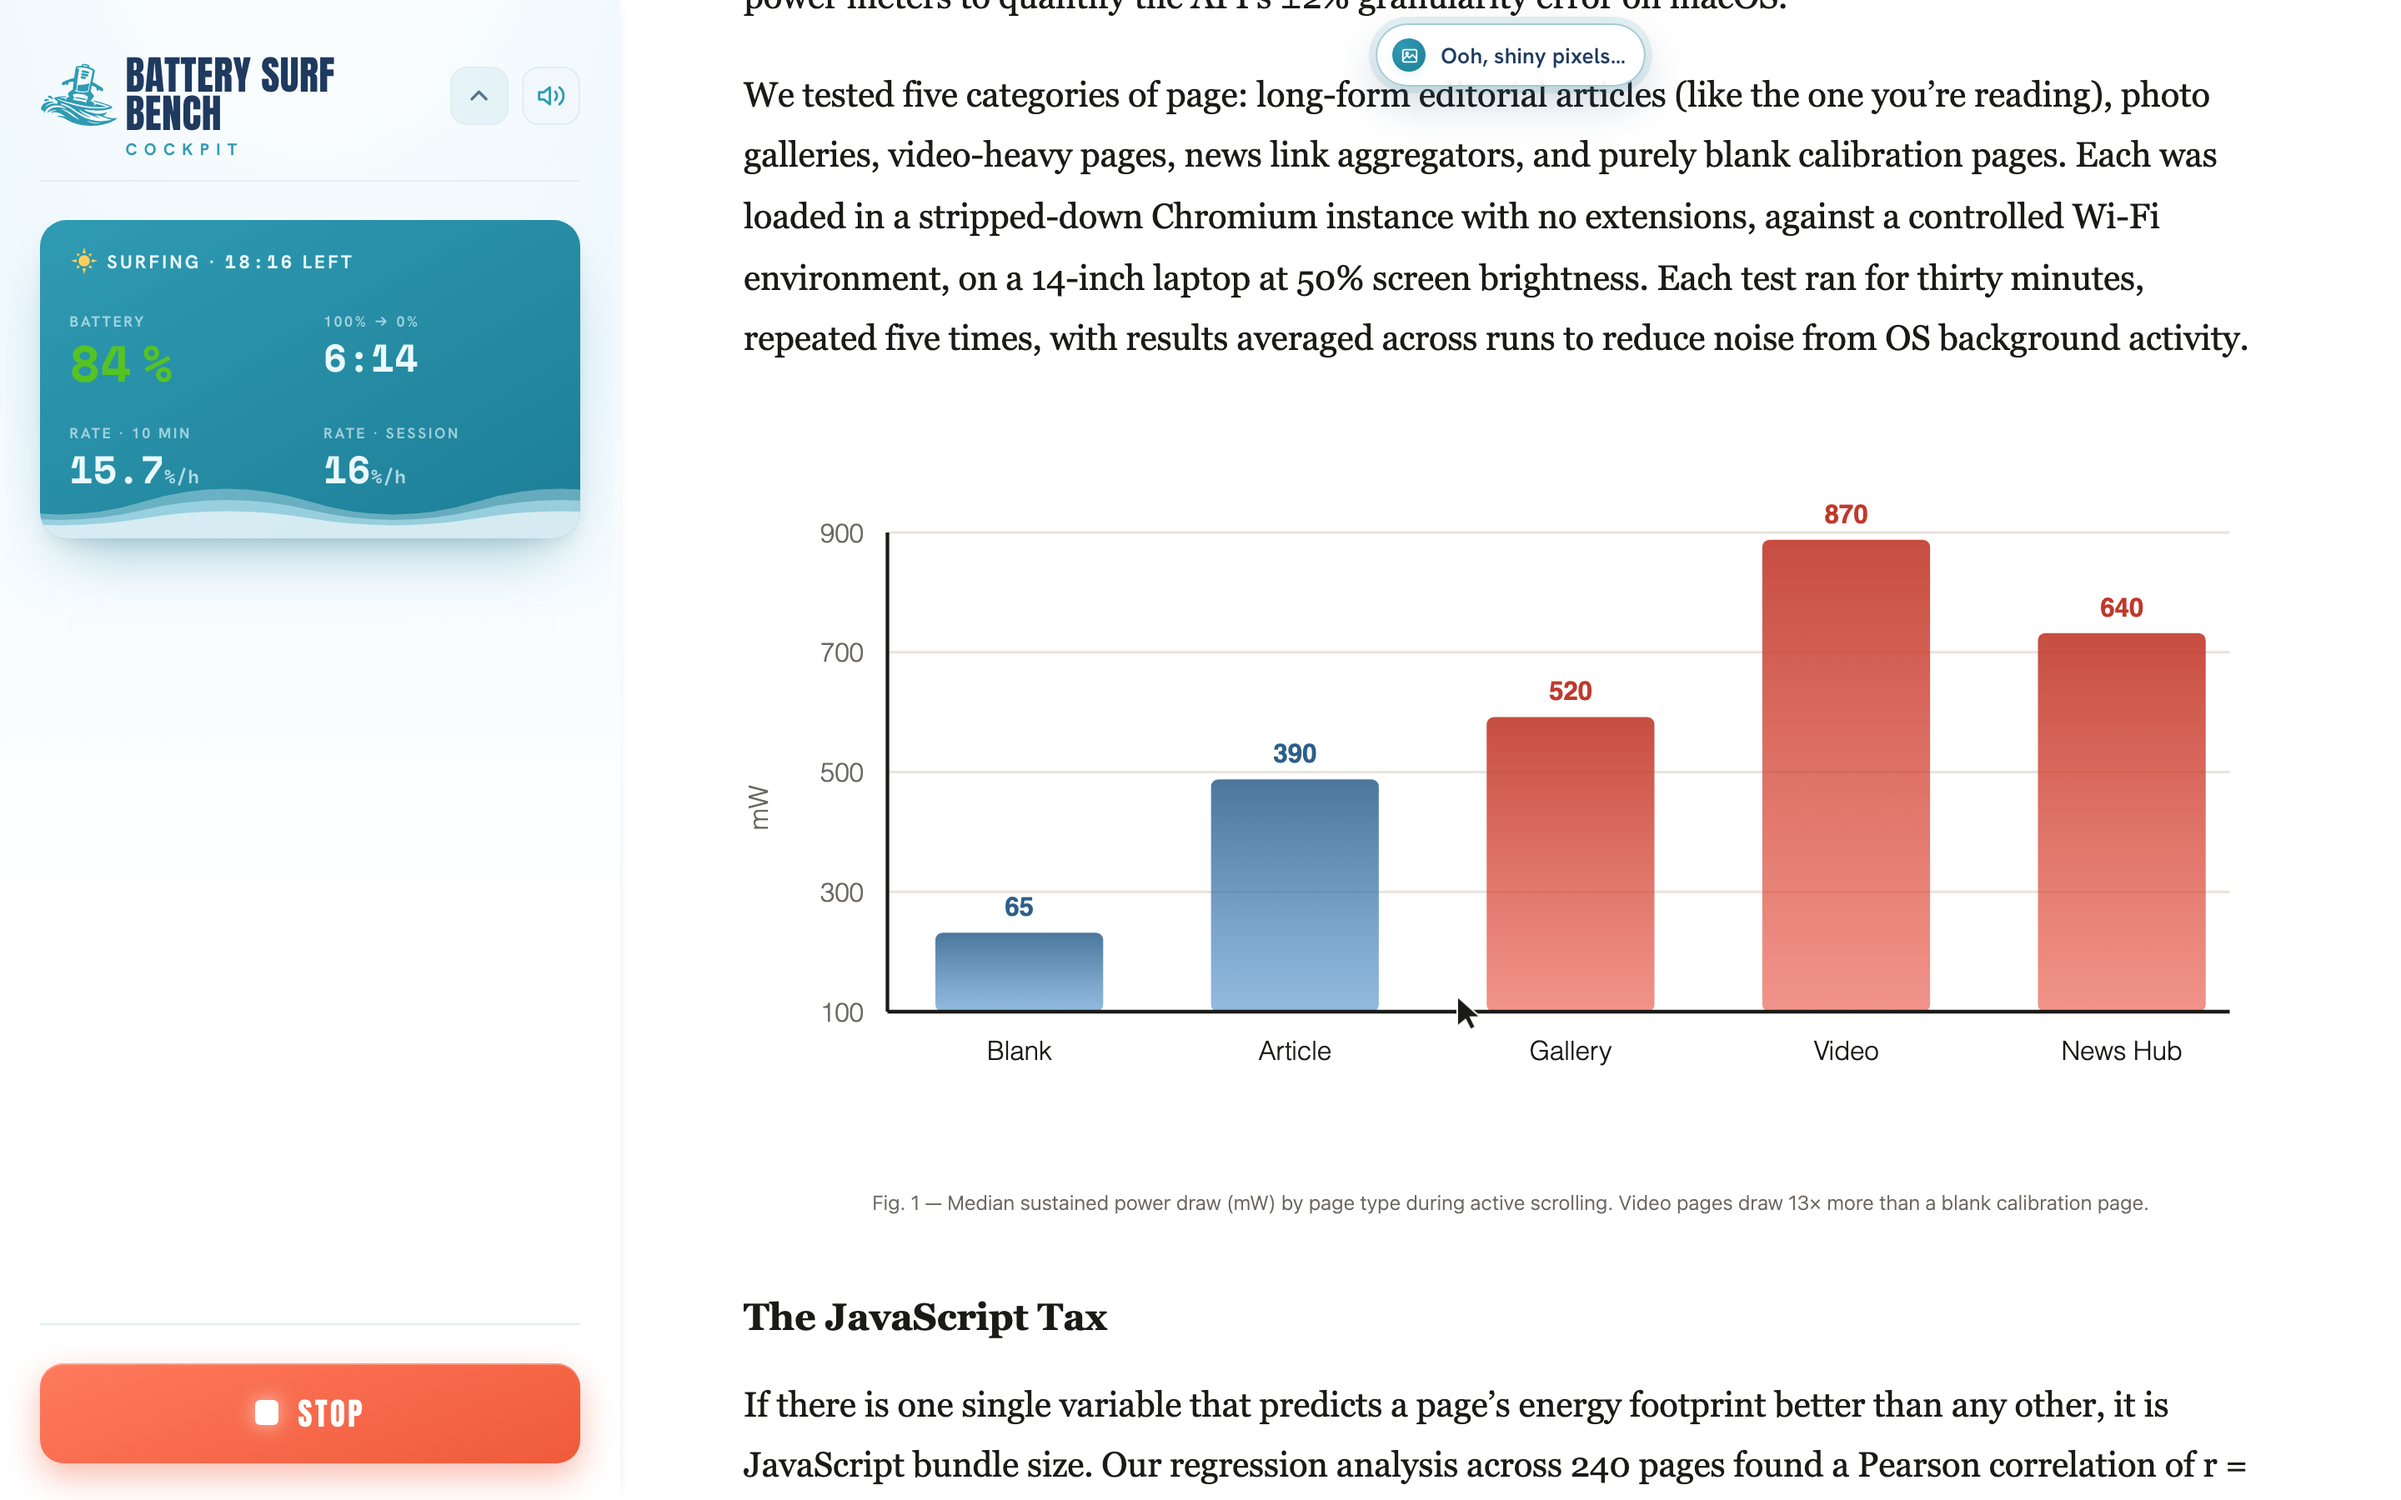
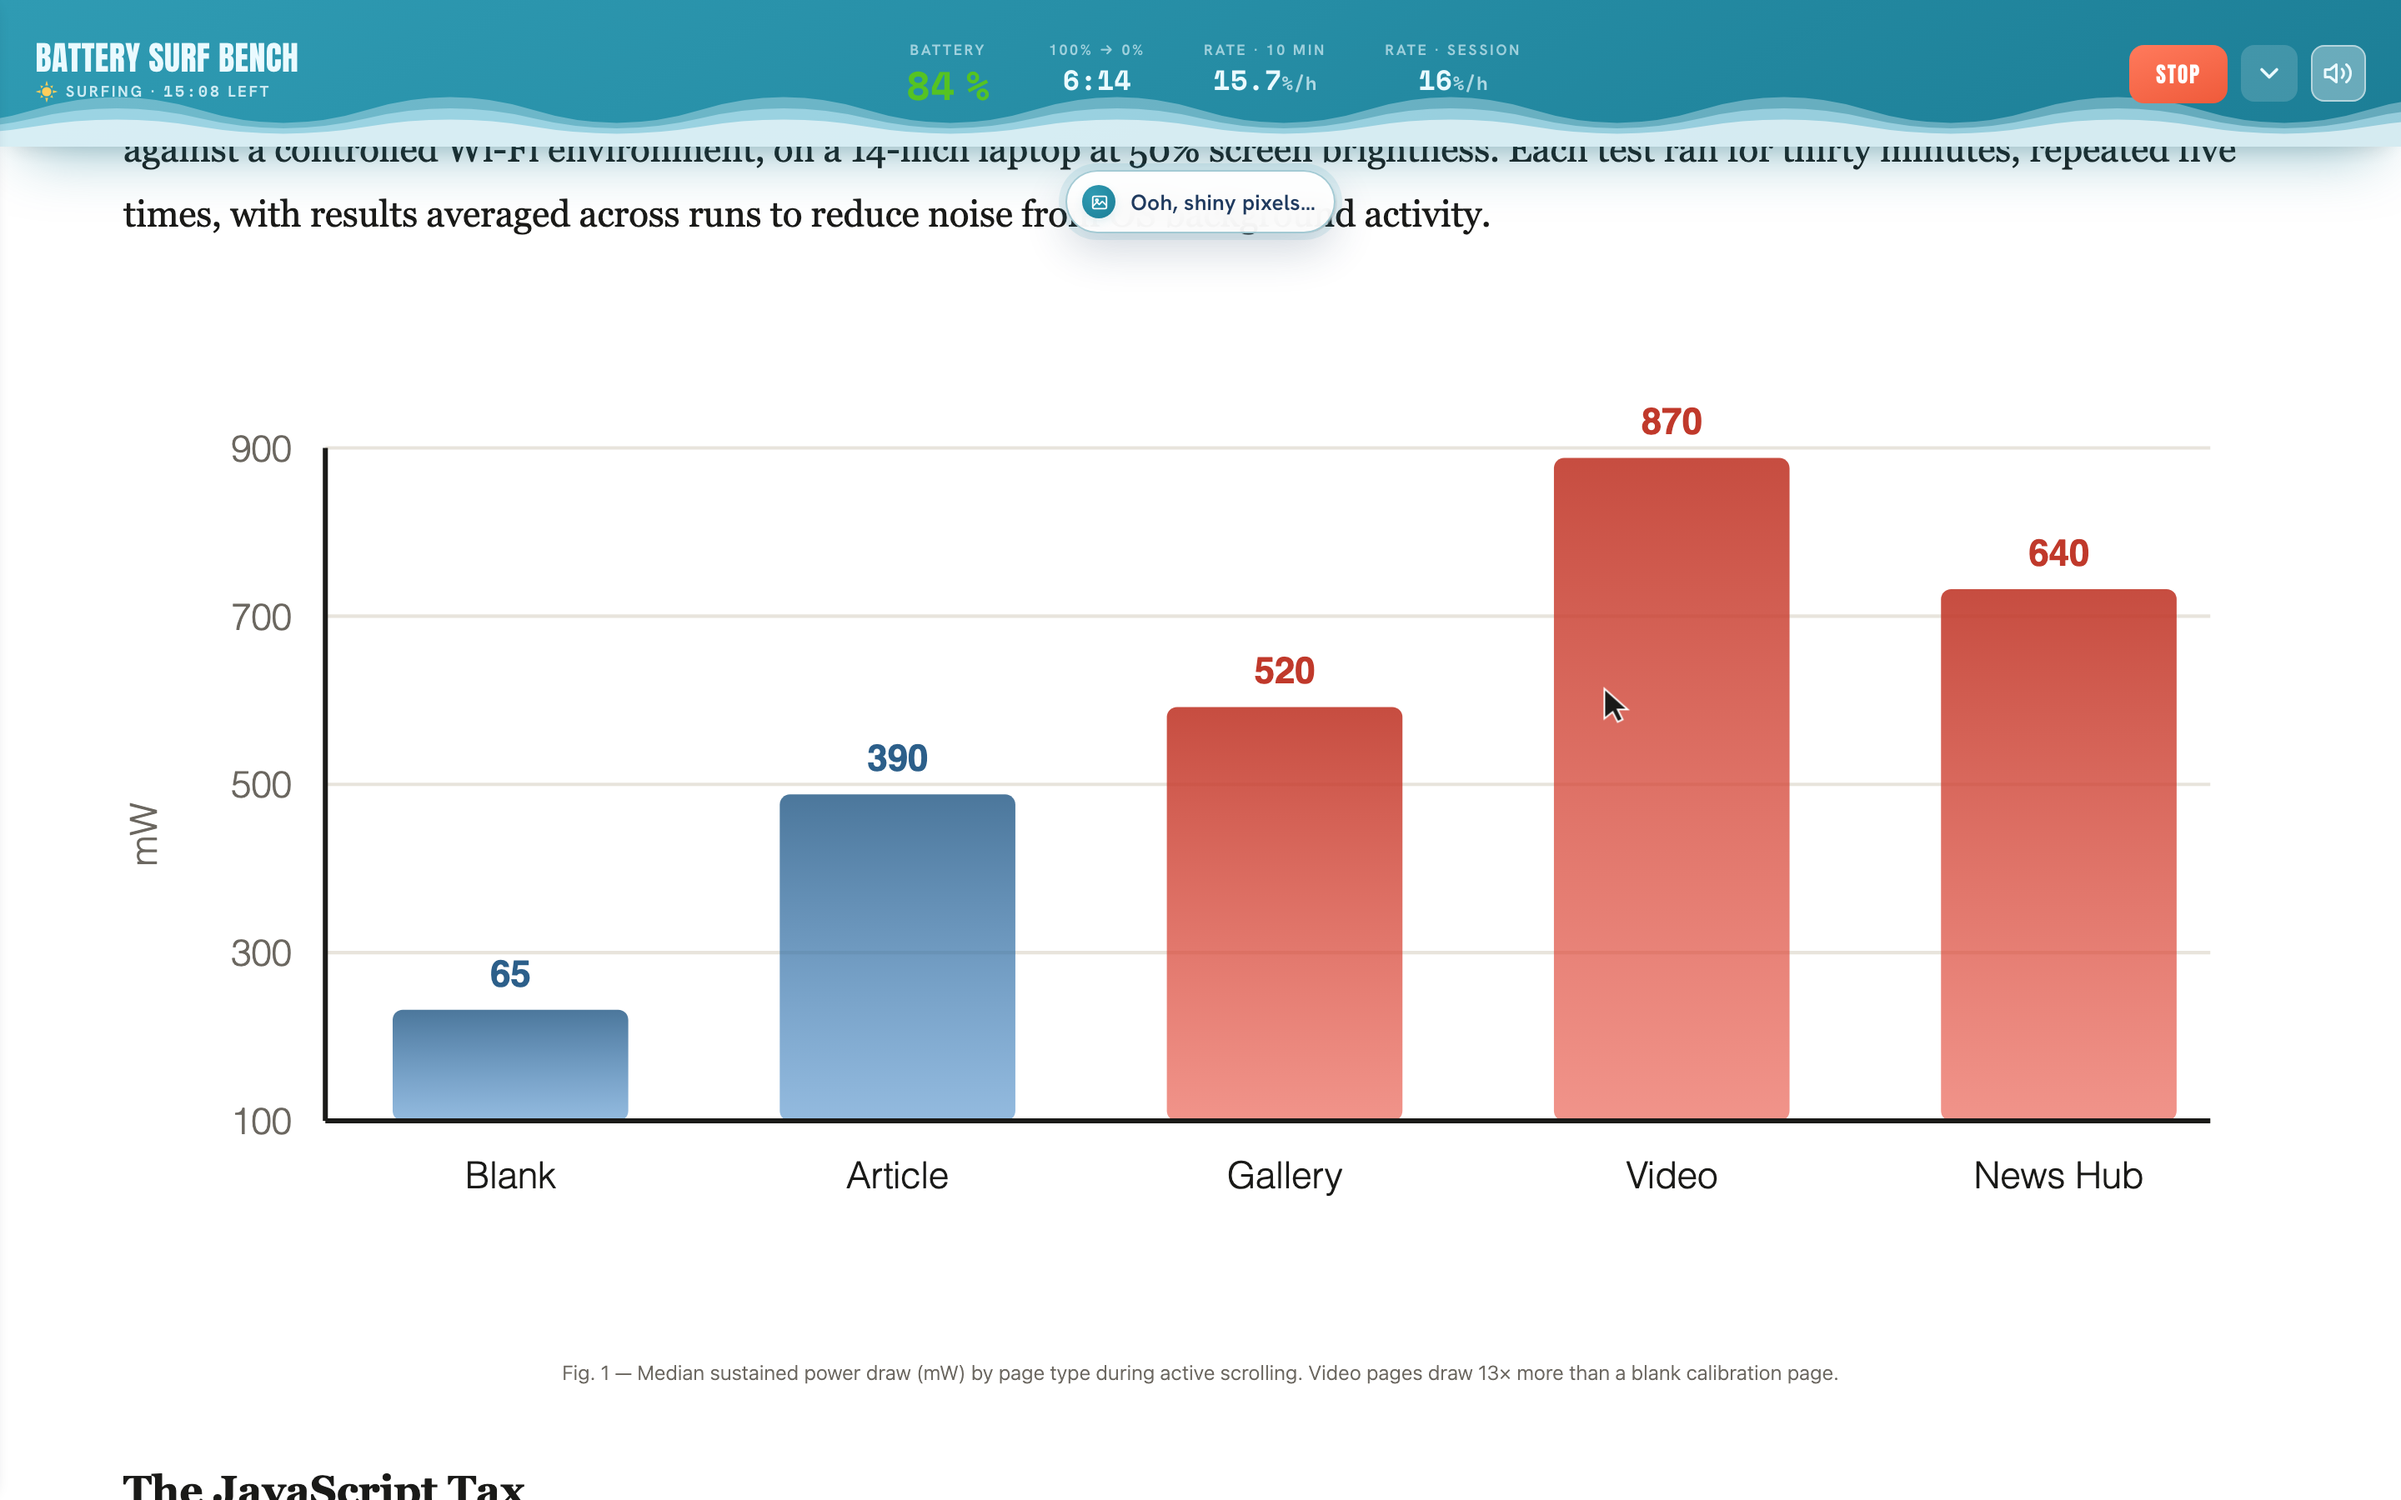
[DOCS]: retake the listing screenshots

diff --git a/docs/images/wordpress-org/README.md b/docs/images/wordpress-org/README.md
@@ -47,7 +47,7 @@ They are captured from the running plugin and never edited by hand. To retake al
 pnpm screenshots
 ```
 
-The command builds the plugin, boots a throwaway WordPress Playground in the `production` environment type (so the dev-tools panel stays off), stages the site, and overwrites the five files at 1440 × 900 CSS pixels, twice that in device pixels. It takes 15 to 30 minutes, almost all of it the live run in `screenshot-1.png`: the cockpit computes its drain rates from real elapsed time, so the capture waits for three real 1 % battery steps and then for the surfer to scroll the article's chart into view. The capture scripts are in `tests/screenshots/`.
+The command builds the plugin, boots a throwaway WordPress Playground in the `production` environment type (so the dev-tools panel stays off), stages the site, and overwrites the five files at 1440 × 900 CSS pixels, twice that in device pixels. The three admin screens are captured in a larger window and cropped to the plugin's own screen, leaving out WordPress's admin menu and toolbar. It takes 15 to 30 minutes, almost all of it the live run in `screenshot-1.png`: the cockpit computes its drain rates from real elapsed time, so the capture waits for three real 1 % battery steps and then for the surfer to scroll the article's chart into view. The capture scripts are in `tests/screenshots/`.
 
 What the screenshots show is staged the way the listing video was:
 
